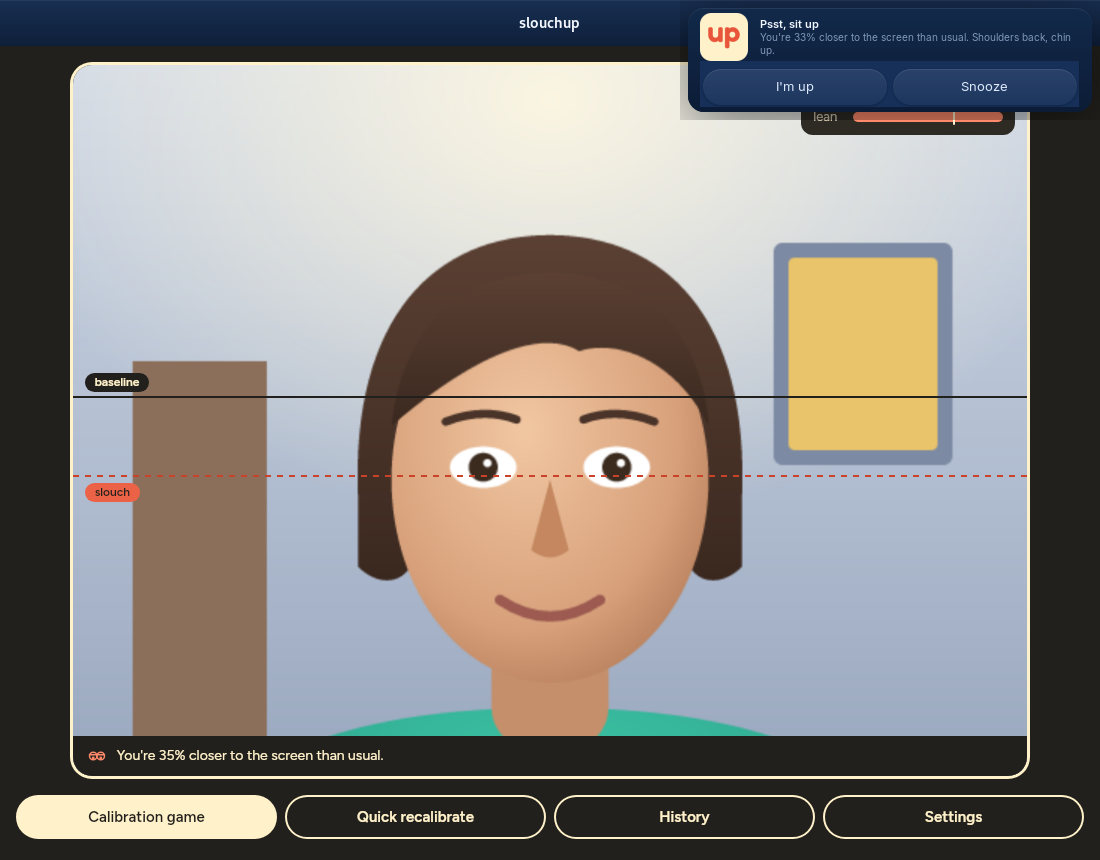
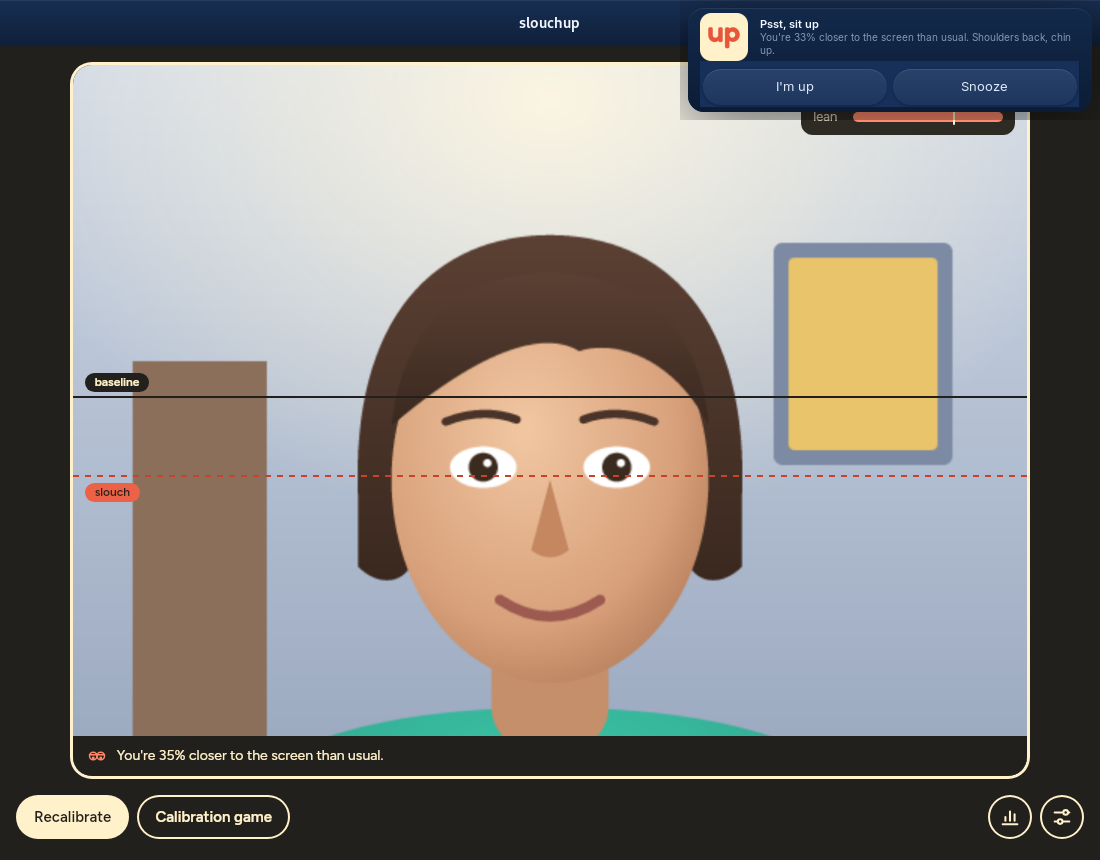
Camera window buttons regrouped
Four equal buttons made the occasional calibration game look like the main action.

- Recalibrate first and filled, the calibration game beside it
- History and Settings as icon buttons, since they open other windows

diff --git a/crates/slouch-app/src/style.css b/crates/slouch-app/src/style.css
@@ -134,8 +134,24 @@ html, body {
   font-weight: 600;
 }
 
-.buttons { display: flex; gap: var(--space-2); }
-.app .button { flex: 1; }
+.buttons { display: flex; align-items: center; gap: var(--space-2); }
+.buttons .spacer { flex: 1; }
+/* Opens another window, so it's an icon rather than an action button. */
+.icon-button {
+  display: inline-grid;
+  place-items: center;
+  width: 44px;
+  height: 44px;
+  padding: 0;
+  border: 2px solid var(--border);
+  border-radius: 50%;
+  background: transparent;
+  color: var(--text);
+  cursor: pointer;
+}
+.icon-button:hover { background: var(--surface-raised); }
+.icon-button:focus-visible { outline: 3px solid var(--sky); outline-offset: 2px; }
+.icon-button span, .icon-button svg { display: block; width: 22px; height: 22px; }
 
 /* Calibration game, full screen */
 

diff --git a/crates/slouch-app/src/ui.rs b/crates/slouch-app/src/ui.rs
@@ -512,14 +512,31 @@ pub fn App() -> Element {
                 }
             }
             div { class: "buttons",
-                button { class: "button primary", onclick: move |_| { let mut start = start_game.clone(); start() }, "Calibration game" }
-                button { class: "button", onclick: move |_| bridge.send(Command::Recalibrate), "Quick recalibrate" }
-                button { class: "button", onclick: move |_| { let open = open_history.clone(); open() }, "History" }
-                button { class: "button", onclick: move |_| { let open = open_settings.clone(); open() }, "Settings" }
+                button { class: "button primary", onclick: move |_| bridge.send(Command::Recalibrate), "Recalibrate" }
+                button { class: "button", onclick: move |_| { let mut start = start_game.clone(); start() }, "Calibration game" }
+                div { class: "spacer" }
+                button {
+                    class: "icon-button",
+                    title: "History",
+                    "aria-label": "History",
+                    onclick: move |_| { let open = open_history.clone(); open() },
+                    span { dangerous_inner_html: HISTORY_ICON }
+                }
+                button {
+                    class: "icon-button",
+                    title: "Settings",
+                    "aria-label": "Settings",
+                    onclick: move |_| { let open = open_settings.clone(); open() },
+                    span { dangerous_inner_html: SETTINGS_ICON }
+                }
             }
         }
     }
 }
+
+/// Line icons in the design system's stroke, coloured by the text around them.
+const HISTORY_ICON: &str = r#"<svg viewBox="0 0 24 24" fill="none" stroke="currentColor" stroke-width="2.25" stroke-linecap="round"><path d="M4 20h16M7 16v-4M12 16V6M17 16V9"/></svg>"#;
+const SETTINGS_ICON: &str = r#"<svg viewBox="0 0 24 24" fill="none" stroke="currentColor" stroke-width="2.25" stroke-linecap="round"><path d="M4 7h9M19 7h1M4 17h3M13 17h7"/><circle cx="16" cy="7" r="2.5"/><circle cx="10" cy="17" r="2.5"/></svg>"#;
 
 /// The tray's eyes, inline, in the colour of the text around them.
 #[component]
